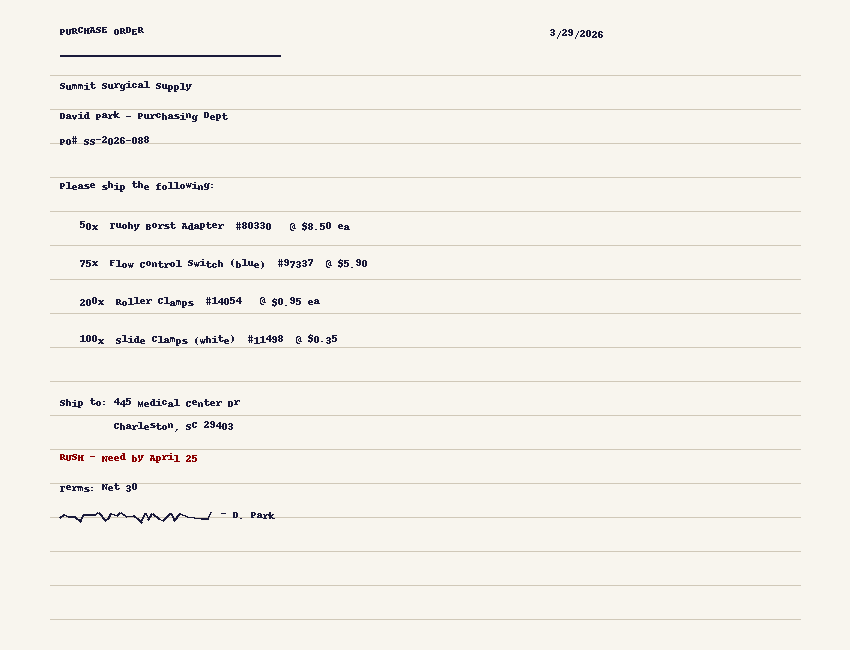
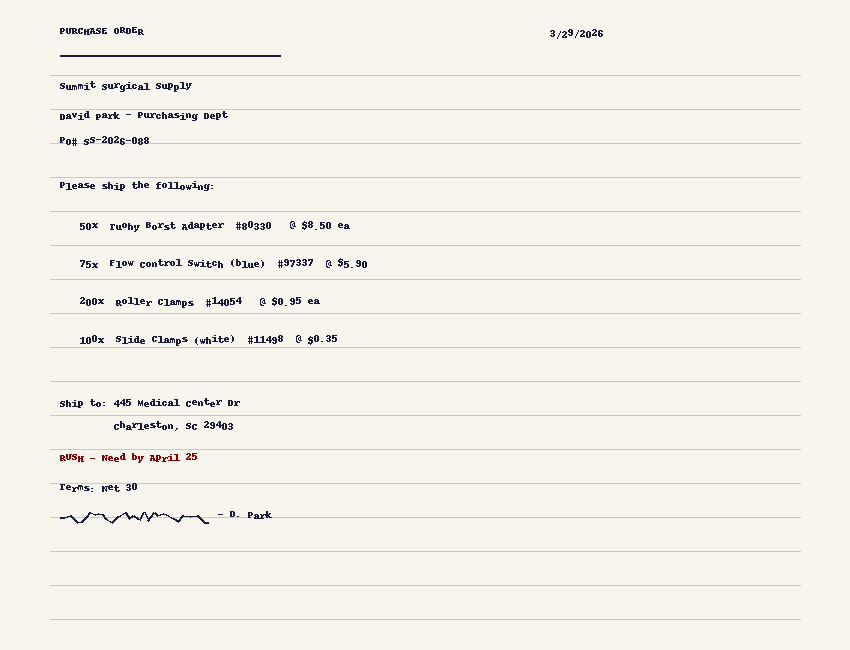
Fix sample docs: all files now generate into UC subfolders

diff --git a/generate_samples.py b/generate_samples.py
@@ -91,7 +91,7 @@ def generate_po_acme():
     pdf.cell(0, 5, "Please include Certificate of Compliance with shipment.", ln=True)
     pdf.cell(0, 5, "All parts must comply with ISO 80369-7.", ln=True)
 
-    path = os.path.join(OUTPUT_DIR, "po_acme_medical.pdf")
+    path = os.path.join(OUTPUT_DIR, "uc1_sales_orders", "po_acme_medical.pdf")
     pdf.output(path)
     print(f"Generated: {path}")
 
@@ -133,7 +133,7 @@ def generate_po_bioflow():
     pdf.cell(0, 6, "Shipping: Standard Ground", ln=True)
     pdf.cell(0, 6, "Special Instructions: None", ln=True)
 
-    path = os.path.join(OUTPUT_DIR, "po_bioflow_systems.pdf")
+    path = os.path.join(OUTPUT_DIR, "uc1_sales_orders", "po_bioflow_systems.pdf")
     pdf.output(path)
     print(f"Generated: {path}")
 
@@ -189,7 +189,7 @@ def generate_spec_sheet_stopcock():
         pdf.cell(60, 6, label, border=1)
         pdf.cell(120, 6, value, border=1, ln=True)
 
-    path = os.path.join(OUTPUT_DIR, "spec_sheet_stopcock.pdf")
+    path = os.path.join(OUTPUT_DIR, "uc3_product_data", "spec_sheet_stopcock.pdf")
     pdf.output(path)
     print(f"Generated: {path}")
 
@@ -243,7 +243,7 @@ def generate_spec_sheet_filter():
         pdf.cell(70, 6, label, border=1)
         pdf.cell(110, 6, value, border=1, ln=True)
 
-    path = os.path.join(OUTPUT_DIR, "spec_sheet_filter_euroflex.pdf")
+    path = os.path.join(OUTPUT_DIR, "uc3_product_data", "spec_sheet_filter_euroflex.pdf")
     pdf.output(path)
     print(f"Generated: {path}")
 
@@ -320,7 +320,7 @@ def generate_handwritten_po():
     draw.line(points, fill=ink, width=2)
     wobbly_text(draw, x_pos + 10, y + 102, "- D. Park", font_small)
 
-    path = os.path.join(OUTPUT_DIR, "po_handwritten_summit_surgical.png")
+    path = os.path.join(OUTPUT_DIR, "uc1_sales_orders", "po_handwritten_summit_surgical.png")
     img.save(path)
     print(f"Generated: {path}")
 
@@ -466,7 +466,7 @@ def generate_vendor_invoice_perfect():
     pdf.set_font("Helvetica", "", 9)
     pdf.cell(0, 5, "Please remit payment to: Precision Plastics Corp, Account #4412-8890, Routing #053100300", ln=True)
 
-    path = os.path.join(OUTPUT_DIR, "vendor_invoice_precision_plastics.pdf")
+    path = os.path.join(OUTPUT_DIR, "uc2_ap_processing", "vendor_invoice_precision_plastics.pdf")
     pdf.output(path)
     print(f"Generated: {path}")
 
@@ -529,7 +529,7 @@ def generate_vendor_invoice_discrepancy():
     pdf.set_font("Helvetica", "I", 9)
     pdf.cell(0, 5, "Note: Shipped 500 units per PO-2026-005. Please verify receipt and remit.", ln=True)
 
-    path = os.path.join(OUTPUT_DIR, "vendor_invoice_techvalve_discrepancy.pdf")
+    path = os.path.join(OUTPUT_DIR, "uc2_ap_processing", "vendor_invoice_techvalve_discrepancy.pdf")
     pdf.output(path)
     print(f"Generated: {path}")
 
@@ -592,7 +592,7 @@ def generate_vendor_invoice_penny():
     pdf.cell(0, 5, "Wire transfer to: SinoMed Components Ltd, HSBC Shanghai, SWIFT: HSBCSGSG", ln=True)
     pdf.cell(0, 5, "Account: 400-123456-001  |  Reference: VINV-2026-002", ln=True)
 
-    path = os.path.join(OUTPUT_DIR, "vendor_invoice_sinomed_penny.pdf")
+    path = os.path.join(OUTPUT_DIR, "uc2_ap_processing", "vendor_invoice_sinomed_penny.pdf")
     pdf.output(path)
     print(f"Generated: {path}")
 
@@ -659,7 +659,7 @@ def generate_payment_remittance():
     pdf.cell(0, 5, "Note: Deducted $5.00 from CINV-2026-007 for damaged goods on order ORD-2025-0106.", ln=True)
     pdf.cell(0, 5, "Please apply payment and adjust balance accordingly.", ln=True)
 
-    path = os.path.join(OUTPUT_DIR, "payment_remittance_medline.pdf")
+    path = os.path.join(OUTPUT_DIR, "uc2_ap_processing", "payment_remittance_medline.pdf")
     pdf.output(path)
     print(f"Generated: {path}")
 
